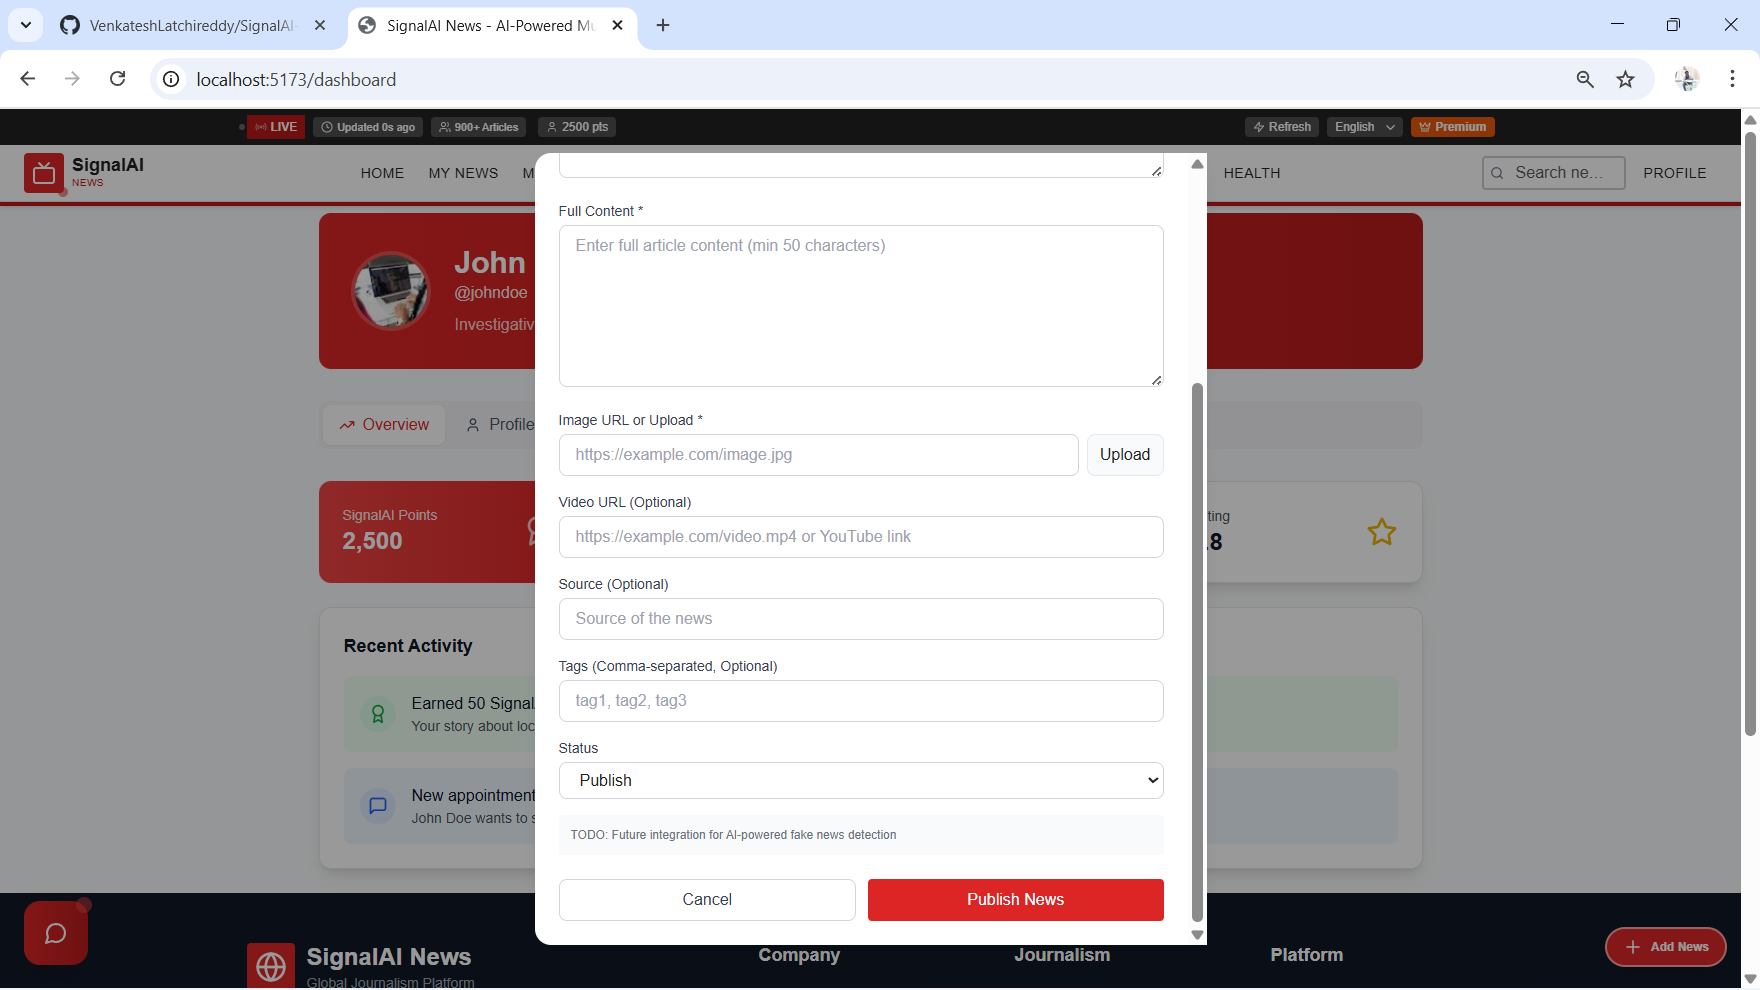
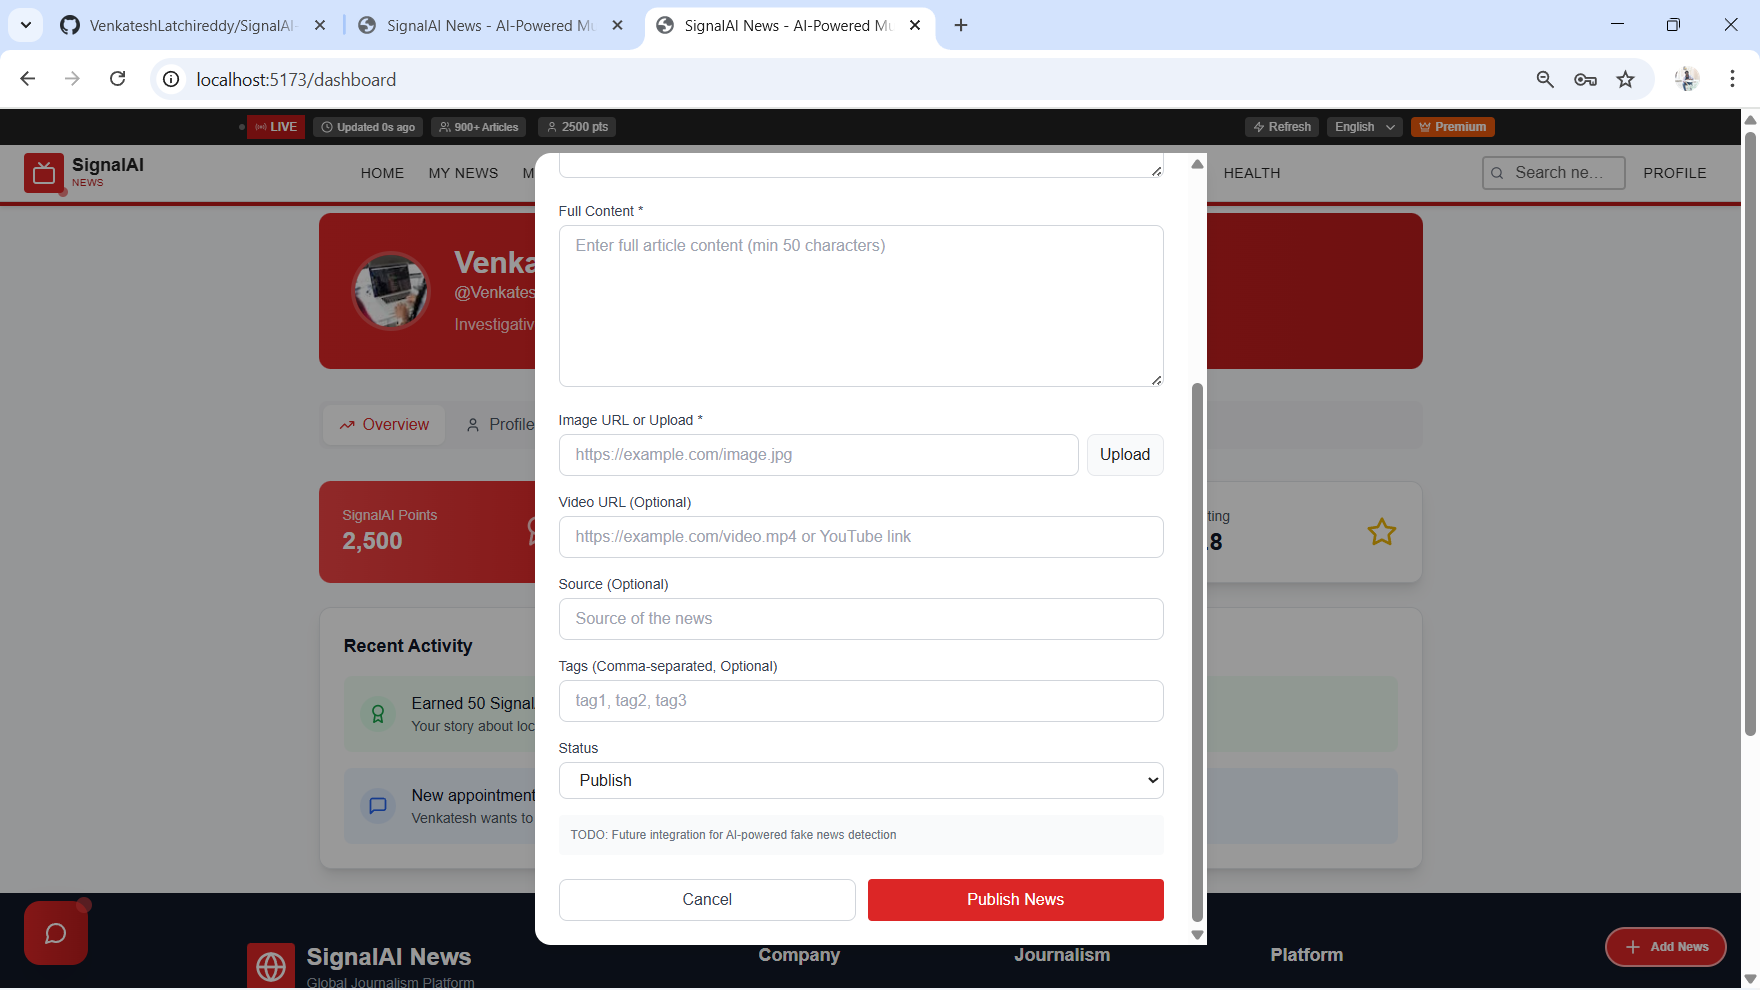
imgs updated

diff --git a/src/context/AuthContext.tsx b/src/context/AuthContext.tsx
@@ -107,9 +107,9 @@ const AuthContext = createContext<AuthContextType | undefined>(undefined);
 const mockUsers: User[] = [
   {
     id: '1',
-    email: 'john.doe@example.com',
-    username: 'johndoe',
-    fullName: 'John Doe',
+    email: 'Venkatesh@example.com',
+    username: 'Venkatesh',
+    fullName: 'Venkatesh ',
     userType: 'journalist',
     isVerified: true,
     avatar: 'https://images.pexels.com/photos/1181467/pexels-photo-1181467.jpeg?auto=compress&cs=tinysrgb&w=100',
@@ -123,9 +123,9 @@ const mockUsers: User[] = [
     specializations: ['Politics', 'Social Issues', 'Investigative Reporting'],
     credentials: ['Reuters Institute Fellowship', 'Pulitzer Prize Nominee'],
     socialLinks: {
-      twitter: '@johndoe_news',
-      linkedin: 'john-doe-journalist',
-      website: 'johndoe.news'
+      twitter: '@Venkatesh_news',
+      linkedin: 'Venkatesh-journalist',
+      website: 'Venkatesh.news'
     }
   },
   {

diff --git a/src/components/LoginModal.tsx b/src/components/LoginModal.tsx
@@ -311,7 +311,7 @@ const LoginModal: React.FC<LoginModalProps> = ({ isOpen, onClose }) => {
           {isLogin && (
             <div className="bg-gray-50 p-4 rounded-lg text-sm text-gray-600">
               <p className="font-medium mb-2">Demo Credentials:</p>
-              <p>Email: john.doe@example.com</p>
+              <p>Email: Venkatesh@example.com</p>
               <p>Password: password</p>
             </div>
           )}

diff --git a/src/components/UserDashboard.tsx b/src/components/UserDashboard.tsx
@@ -96,7 +96,7 @@ const UserDashboard: React.FC = () => {
             </div>
             <div>
               <p className="font-medium text-gray-900">New appointment request</p>
-              <p className="text-sm text-gray-600">John Doe wants to schedule a consultation</p>
+              <p className="text-sm text-gray-600">Venkatesh wants to schedule a consultation</p>
             </div>
           </div>
         </div>

diff --git a/README.md b/README.md
@@ -17,6 +17,9 @@ Screenshots!
 ![SignalAI-News](https://raw.githubusercontent.com/VenkateshLatchireddy/SignalAI-News/main/src/Assets/Home1.png)
 
 
+![SignalAI-News](https://raw.githubusercontent.com/VenkateshLatchireddy/SignalAI-News/main/src/Assets/Profile.png)
+
+
 ![SignalAI News](https://raw.githubusercontent.com/VenkateshLatchireddy/SignalAI-News/main/src/Assets/MyNews.png
 )
 

diff --git a/SUBSCRIPTION_SUMMARY.md b/SUBSCRIPTION_SUMMARY.md
@@ -311,7 +311,7 @@ Health check endpoint.
 
 1. Start backend: `cd server && npm start`
 2. Start frontend: `npm run dev`
-3. Login: `john.doe@example.com` / `password`
+3. Login: `Venkatesh@example.com` / `password`
 4. Go to `/subscription`
 5. Select Premium Monthly (₹199)
 6. Use test card: `4111 1111 1111 1111`

diff --git a/QUICKSTART_SUBSCRIPTION.md b/QUICKSTART_SUBSCRIPTION.md
@@ -53,7 +53,7 @@ npm run dev
 
 1. Open browser: `http://localhost:5173`
 2. Login with demo account:
-   - Email: `john.doe@example.com`
+   - Email: `Venkatesh@example.com`
    - Password: `password`
 3. Click **Premium** button in header (between language selector and date)
 4. Choose a plan (Premium or Pro)

diff --git a/README_SUBSCRIPTION.md b/README_SUBSCRIPTION.md
@@ -113,7 +113,7 @@ npm run dev
 **Expiry:** Any future date
 
 ### Test Flow
-1. Login: `john.doe@example.com` / `password`
+1. Login: `Venkatesh@example.com` / `password`
 2. Click "Premium" button in header
 3. Select a plan
 4. Use test card above

diff --git a/SUBSCRIPTION_SETUP.md b/SUBSCRIPTION_SETUP.md
@@ -190,7 +190,7 @@ Navigate to: `http://localhost:5173/subscription`
 ### 2. Login (if not already logged in)
 
 Use demo credentials:
-- Email: `john.doe@example.com`
+- Email: `Venkatesh@example.com`
 - Password: `password`
 
 ### 3. Select a Plan

diff --git a/VISUAL_GUIDE.md b/VISUAL_GUIDE.md
@@ -276,7 +276,7 @@ Enjoy Premium Content!
 ### On User Profile
 ```
 ┌─────────────┐
-│  John Doe   │
+│  Venkatesh  │
 │  🎖 PREMIUM  │  ← Badge
 └─────────────┘
 ```
